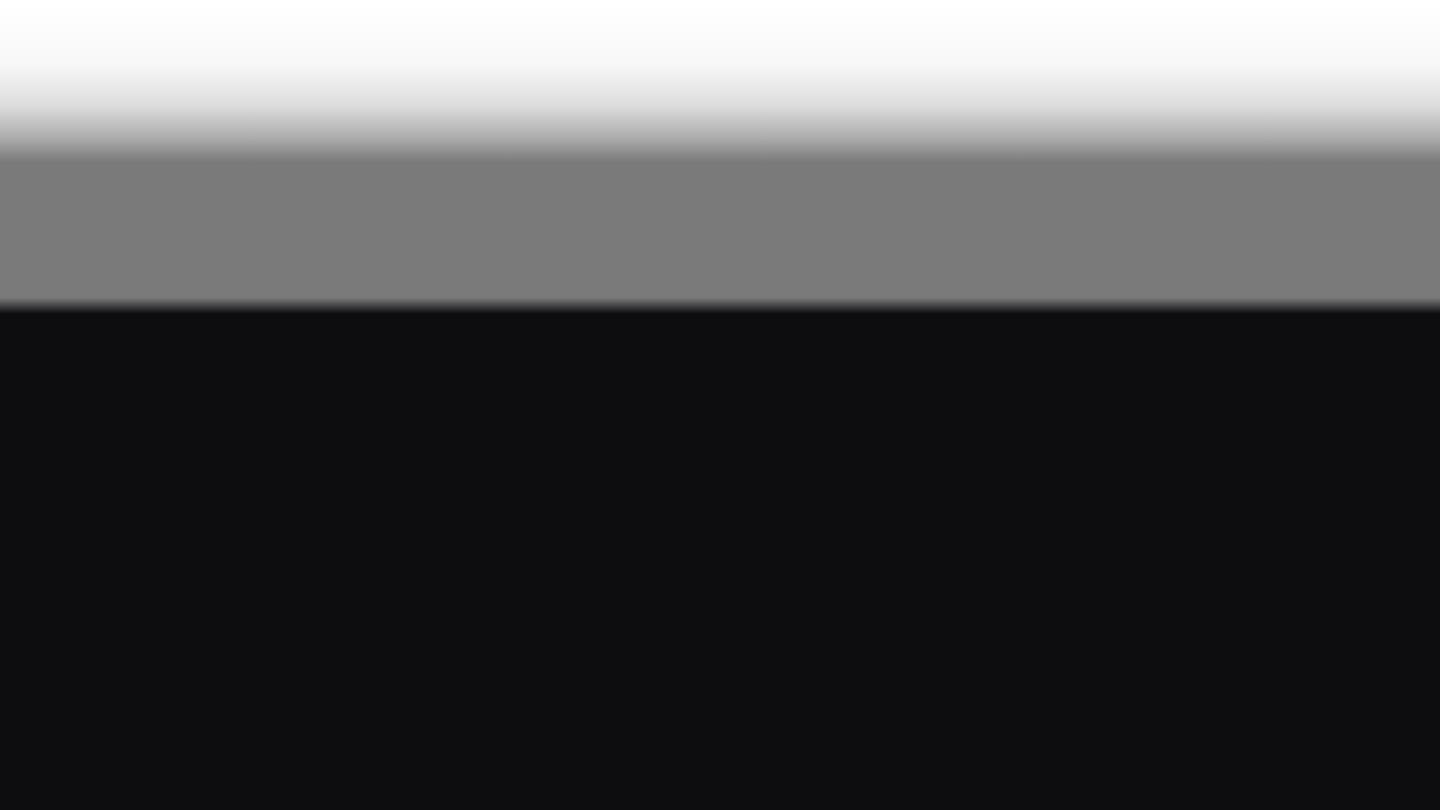
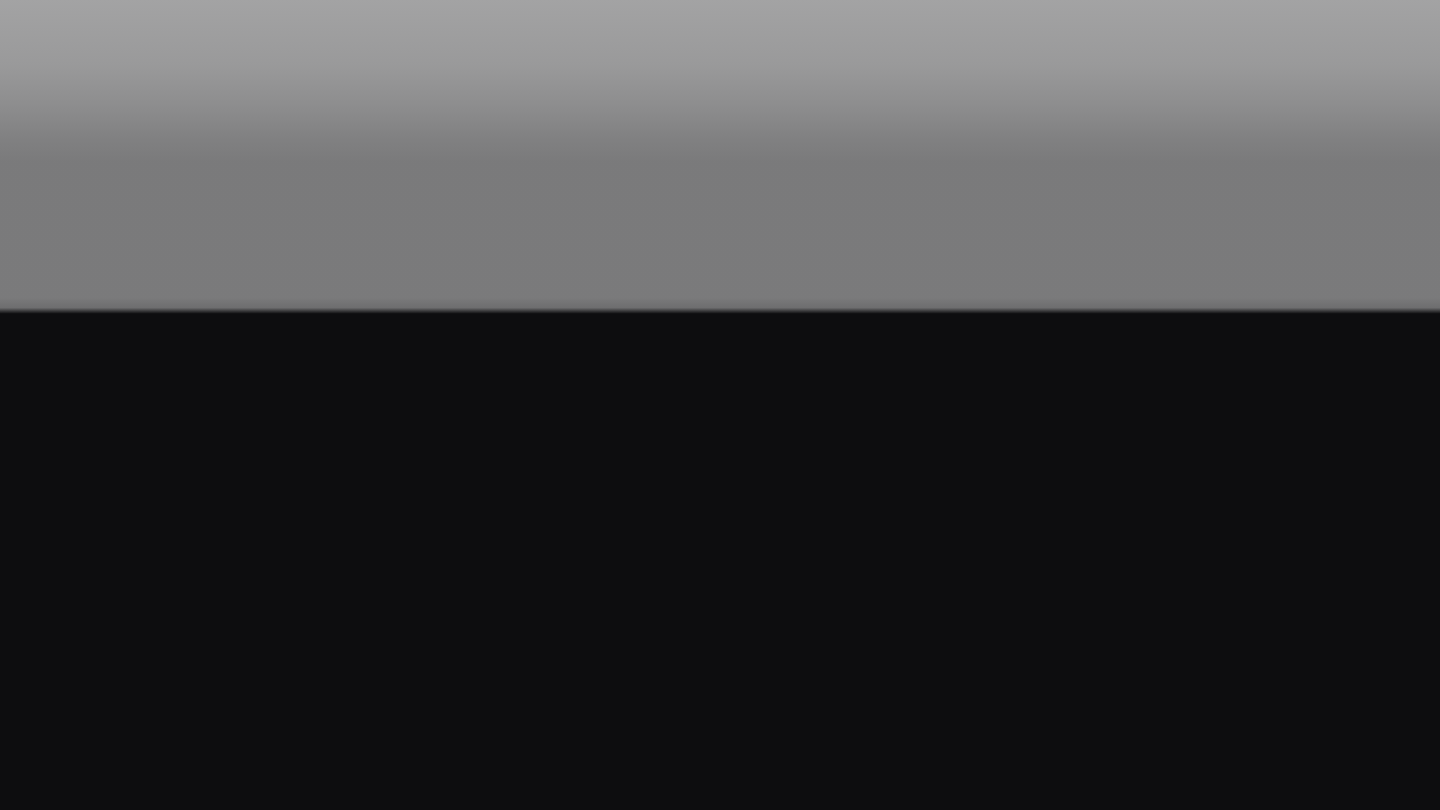
Pass-101: the hero reads — the ceiling darkened, the plateau held to the tip
Two verifier findings on one element. "THE HERO'S ENTIRE PREMISE DOES NOT READ
AT 1440 ... at the measured tip (279,310) there is an indistinguishable dark
blob, not a finger", and "300px of featureless grey ceiling across the top of
the stage, a face cropped in half at the right viewport edge, `I build the`
running directly across that face's eye and nose".

Both are the VEIL's shape, and both are fixable inside §16.2's pinned stops,
which are the ruling and do not move: .55 at fingertip_y - 12px, solid at
fingertip_y + 4px, and >= .52 under the bone row.

1. THE CEILING. The ramp opened at ZERO, so the top fifth of the stage was
   ungraded wall — flat grey across the head of the page with the subject's
   face blown out under `I build the`. It opens at .38 now and climbs the same
   distance to the .55 plateau. The room reads as lit rather than as a
   photograph taped over the type, and the bone row's contrast RISES rather
   than falls.
2. THE FINGER. §16.2 pins the two ENDS of the 16px band above the tip; the
   shape between them was free and was being spent on a linear ramp, which
   half-buried the fingertip in its own gradient. The plateau holds to 2px
   above the tip and spends the last 6px going solid.

MEASURED, same probe, before and after: the finger's step off the wall on its
own rows goes from a 20% median / 17-level peak to 22% / 37 LEVELS. Zoomed at
2x with the copy hidden, the pointing hand now reads as a hand. Bone row
[…]

Changed region(s): [[0.0, 0.0, 1.0, 0.1852], [0.0, 0.3704, 1.0, 0.4012]]

diff --git a/app/room.css b/app/room.css
@@ -390,12 +390,27 @@ html.lit .rl-home .bar.dark {
   inset: 0;
   background: linear-gradient(
     to bottom,
-    rgba(13, 13, 15, 0) 0%,
-    rgba(13, 13, 15, 0.03) 8%,
-    rgba(13, 13, 15, 0.14) 13%,
-    rgba(13, 13, 15, 0.34) 17%,
+    /* §18 follow-up, the ceiling. The ramp used to open at ZERO, so the top
+       fifth of the stage was ungraded wall: at 1440 that is ~300px of flat,
+       featureless grey across the head of the page, with the subject's face
+       blown out at the right edge directly under `I build the`. It read as a
+       photograph taped over the type rather than a lit room. The ramp now
+       OPENS at .38 and closes the same distance to the .55 plateau, which
+       darkens the ceiling, pulls the face back behind the headline, and
+       RAISES the bone row's contrast rather than lowering it. §16.2's three
+       pinned stops are untouched: .55 at fingertip_y - 12px, solid at
+       fingertip_y + 4px, and >= .52 at the bone row's own box top. */
+    rgba(13, 13, 15, 0.38) 0%,
+    rgba(13, 13, 15, 0.42) 8%,
+    rgba(13, 13, 15, 0.47) 13%,
+    rgba(13, 13, 15, 0.52) 17%,
     rgba(13, 13, 15, 0.55) 20%,
+    /* The plateau HOLDS to 2px above the tip and spends the last 6px going
+       solid, instead of ramping across the whole 16px. §16.2 pins the two
+       ends; the shape between them is free, and holding it is what keeps the
+       fingertip itself lit rather than half-buried in the ramp. */
     rgba(13, 13, 15, 0.55) calc(var(--fy) - 12px),
+    rgba(13, 13, 15, 0.6) calc(var(--fy) - 2px),
     rgba(13, 13, 15, 1) calc(var(--fy) + 4px),
     rgba(13, 13, 15, 1) 100%
   );
